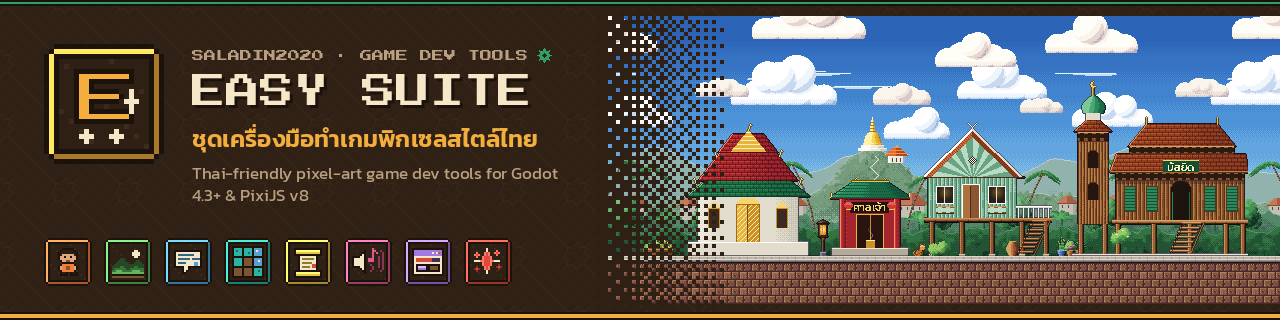
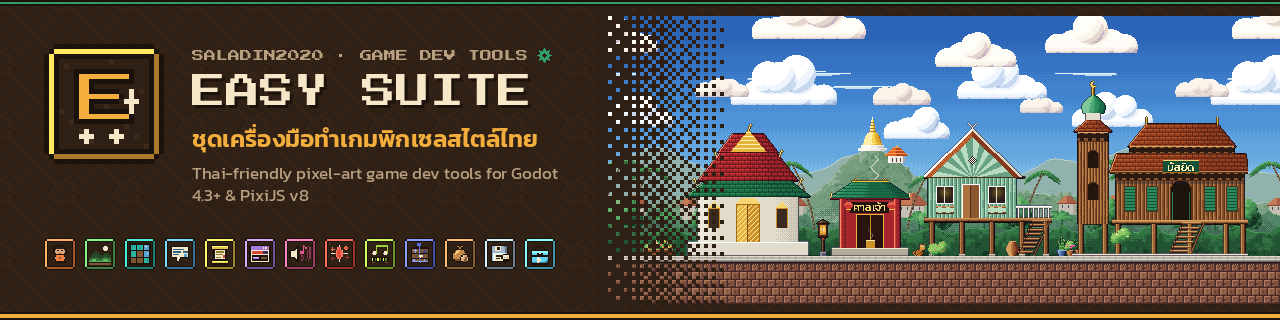
Easy Suite is now thirteen tools: add Easy Music, Anim, Items, Save and Kit

Changed region(s): [[0.0312, 0.75, 0.4375, 0.9062]]

diff --git a/README.md b/README.md
@@ -27,9 +27,27 @@ I want game makers to be able to tell stories where the wat, the masjid and the 
 
 <img src="assets/easy-suite/banner-suite-v2.png" width="100%" alt="Easy Suite: Thai-friendly pixel-art game dev tools for Godot 4.3+ and PixiJS v8, shown over a village street with a temple, a shrine, a kampung house and a mosque" />
 
-Eight small, local-first tools for making cozy Thai pixel-art games: characters, side-view scenes, top-down
-maps, dialogue, quests, sound, UI and particle effects. Each one has a CLI, a web editor and an MCP server, and exports to
-**Godot 4.3+** and **PixiJS v8**. ทำตัวละคร ฉาก แผนที่ บทสนทนา เควสต์ เสียง UI และเอฟเฟกต์ได้ครบในชุดเดียว
+<p align="center">
+  <a href="https://github.com/Saladin2020/easysprite"><img src="assets/easy-suite/logo-sprite-96.png" width="32" alt="Easy Sprite" title="Easy Sprite" /></a>
+  <a href="https://github.com/Saladin2020/easyscene"><img src="assets/easy-suite/logo-scene-96.png" width="32" alt="Easy Scene" title="Easy Scene" /></a>
+  <a href="https://github.com/Saladin2020/easytilemap"><img src="assets/easy-suite/logo-tilemap-96.png" width="32" alt="Easy Tilemap" title="Easy Tilemap" /></a>
+  <a href="https://github.com/Saladin2020/easydialogue"><img src="assets/easy-suite/logo-dialogue-96.png" width="32" alt="Easy Dialogue" title="Easy Dialogue" /></a>
+  <a href="https://github.com/Saladin2020/easyquest"><img src="assets/easy-suite/logo-quest-96.png" width="32" alt="Easy Quest" title="Easy Quest" /></a>
+  <a href="https://github.com/Saladin2020/easyui"><img src="assets/easy-suite/logo-ui-96.png" width="32" alt="Easy UI" title="Easy UI" /></a>
+  <a href="https://github.com/Saladin2020/easysfx"><img src="assets/easy-suite/logo-sfx-96.png" width="32" alt="Easy SFX" title="Easy SFX" /></a>
+  <a href="https://github.com/Saladin2020/easyfx"><img src="assets/easy-suite/logo-fx-96.png" width="32" alt="Easy FX" title="Easy FX" /></a>
+  <a href="https://github.com/Saladin2020/easymusic"><img src="assets/easy-suite/logo-music-96.png" width="32" alt="Easy Music" title="Easy Music" /></a>
+  <a href="https://github.com/Saladin2020/easyanim"><img src="assets/easy-suite/logo-anim-96.png" width="32" alt="Easy Anim" title="Easy Anim" /></a>
+  <a href="https://github.com/Saladin2020/easyitems"><img src="assets/easy-suite/logo-items-96.png" width="32" alt="Easy Items" title="Easy Items" /></a>
+  <a href="https://github.com/Saladin2020/easysave"><img src="assets/easy-suite/logo-save-96.png" width="32" alt="Easy Save" title="Easy Save" /></a>
+  <a href="https://github.com/Saladin2020/easykit"><img src="assets/easy-suite/logo-kit-96.png" width="32" alt="Easy Kit" title="Easy Kit" /></a>
+</p>
+
+Thirteen small, local-first tools for making cozy Thai pixel-art games: characters, side-view scenes, top-down
+maps, dialogue, quests, UI, sound, particle effects, music, cutscenes, items and saves with Thai / English / Malay
+text, plus **Easy Kit**, which drives the other twelve to build a whole playable game in one command. Each one has a
+CLI, a web editor and an MCP server, and exports to **Godot 4.3+** and **PixiJS v8**.
+ทำตัวละคร ฉาก แผนที่ บทสนทนา เควสต์ UI เสียง เอฟเฟกต์ เพลง คัตซีน ไอเทม และเซฟเกมได้ครบในชุดเดียว
 รองรับภาษาไทยเต็มรูปแบบ
 
 **Multicultural village samples · หมู่บ้านพหุวัฒนธรรม:** the samples now include a southern Thai Muslim
@@ -55,16 +73,16 @@ Ramadan-to-Hari-Raya quest, rebana and rammana drums, and a green-and-gold Raya 
       <sub>Side-view parallax scenes, autotiles & props</sub>
     </td>
     <td align="center" valign="top" width="25%">
-      <a href="https://github.com/Saladin2020/easydialogue"><img src="assets/easy-suite/logo-dialogue-96.png" width="64" alt="Easy Dialogue" /></a><br />
-      <a href="https://github.com/Saladin2020/easydialogue"><b>Easy Dialogue</b></a><br />
-      <sub>บทสนทนาเกม ภาษาไทยสระไม่ลอย</sub><br />
-      <sub>Branching dialogue, Thai-safe text & portraits</sub>
-    </td>
-    <td align="center" valign="top" width="25%">
       <a href="https://github.com/Saladin2020/easytilemap"><img src="assets/easy-suite/logo-tilemap-96.png" width="64" alt="Easy Tilemap" /></a><br />
       <a href="https://github.com/Saladin2020/easytilemap"><b>Easy Tilemap</b></a><br />
       <sub>แผนที่มุมบน ออโต้ไทล์ หมู่บ้านไทย</sub><br />
       <sub>Top-down 16px tile maps with autotiling</sub>
+    </td>
+    <td align="center" valign="top" width="25%">
+      <a href="https://github.com/Saladin2020/easydialogue"><img src="assets/easy-suite/logo-dialogue-96.png" width="64" alt="Easy Dialogue" /></a><br />
+      <a href="https://github.com/Saladin2020/easydialogue"><b>Easy Dialogue</b></a><br />
+      <sub>บทสนทนาเกม ภาษาไทยสระไม่ลอย</sub><br />
+      <sub>Branching dialogue, Thai-safe text & portraits</sub>
     </td>
   </tr>
   <tr>
@@ -75,22 +93,55 @@ Ramadan-to-Hari-Raya quest, rebana and rammana drums, and a green-and-gold Raya 
       <sub>Text quests linked to Easy Dialogue</sub>
     </td>
     <td align="center" valign="top" width="25%">
-      <a href="https://github.com/Saladin2020/easysfx"><img src="assets/easy-suite/logo-sfx-96.png" width="64" alt="Easy SFX" /></a><br />
-      <a href="https://github.com/Saladin2020/easysfx"><b>Easy SFX</b></a><br />
-      <sub>เสียง 8-bit และเพลง chiptune</sub><br />
-      <sub>Deterministic 8-bit SFX & chiptune loops</sub>
-    </td>
-    <td align="center" valign="top" width="25%">
       <a href="https://github.com/Saladin2020/easyui"><img src="assets/easy-suite/logo-ui-96.png" width="64" alt="Easy UI" /></a><br />
       <a href="https://github.com/Saladin2020/easyui"><b>Easy UI</b></a><br />
       <sub>ชุด UI พิกเซล ฟอนต์ไทย</sub><br />
       <sub>Nine-slice pixel UI kit with Thai text</sub>
     </td>
     <td align="center" valign="top" width="25%">
+      <a href="https://github.com/Saladin2020/easysfx"><img src="assets/easy-suite/logo-sfx-96.png" width="64" alt="Easy SFX" /></a><br />
+      <a href="https://github.com/Saladin2020/easysfx"><b>Easy SFX</b></a><br />
+      <sub>เสียง 8-bit และเพลง chiptune</sub><br />
+      <sub>Deterministic 8-bit SFX & chiptune loops</sub>
+    </td>
+    <td align="center" valign="top" width="25%">
       <a href="https://github.com/Saladin2020/easyfx"><img src="assets/easy-suite/logo-fx-96.png" width="64" alt="Easy FX" /></a><br />
       <a href="https://github.com/Saladin2020/easyfx"><b>Easy FX</b></a><br />
       <sub>พาร์ทิเคิลพิกเซลและเอฟเฟกต์</sub><br />
       <sub>Pixel particles and effects for 2D games</sub>
+    </td>
+  </tr>
+  <tr>
+    <td align="center" valign="top" width="25%">
+      <a href="https://github.com/Saladin2020/easymusic"><img src="assets/easy-suite/logo-music-96.png" width="64" alt="Easy Music" /></a><br />
+      <a href="https://github.com/Saladin2020/easymusic"><b>Easy Music</b></a><br />
+      <sub>เพลงลูปไทย ระนาด ฆ้องวง ซอ</sub><br />
+      <sub>Seeded Thai loop music, seamless WAV/OGG</sub>
+    </td>
+    <td align="center" valign="top" width="25%">
+      <a href="https://github.com/Saladin2020/easyanim"><img src="assets/easy-suite/logo-anim-96.png" width="64" alt="Easy Anim" /></a><br />
+      <a href="https://github.com/Saladin2020/easyanim"><b>Easy Anim</b></a><br />
+      <sub>คัตซีน กล้อง บทพูด เพลง</sub><br />
+      <sub>Cutscene timelines with Godot + Pixi runners</sub>
+    </td>
+    <td align="center" valign="top" width="25%">
+      <a href="https://github.com/Saladin2020/easyitems"><img src="assets/easy-suite/logo-items-96.png" width="64" alt="Easy Items" /></a><br />
+      <a href="https://github.com/Saladin2020/easyitems"><b>Easy Items</b></a><br />
+      <sub>ไอเทม ร้านค้า กระเป๋า คราฟต์</sub><br />
+      <sub>Items, shops, inventory, loot & crafting</sub>
+    </td>
+    <td align="center" valign="top" width="25%">
+      <a href="https://github.com/Saladin2020/easysave"><img src="assets/easy-suite/logo-save-96.png" width="64" alt="Easy Save" /></a><br />
+      <a href="https://github.com/Saladin2020/easysave"><b>Easy Save</b></a><br />
+      <sub>เซฟเกม แปลภาษา ไทย อังกฤษ มลายู</sub><br />
+      <sub>Save slots + Thai / English / Malay strings</sub>
+    </td>
+  </tr>
+  <tr>
+    <td colspan="4" align="center" valign="top">
+      <a href="https://github.com/Saladin2020/easykit"><img src="assets/easy-suite/logo-kit-96.png" width="64" alt="Easy Kit" /></a><br />
+      <a href="https://github.com/Saladin2020/easykit"><b>Easy Kit</b></a> · <sub>ทั้งเกมจาก 12 เครื่องมือในคำสั่งเดียว</sub><br />
+      <sub>One command → a playable Godot + Pixi game: characters, map, dialogue, quest, shop, cutscene, music, FX, saves, th / en / ms</sub>
     </td>
   </tr>
 </table>
